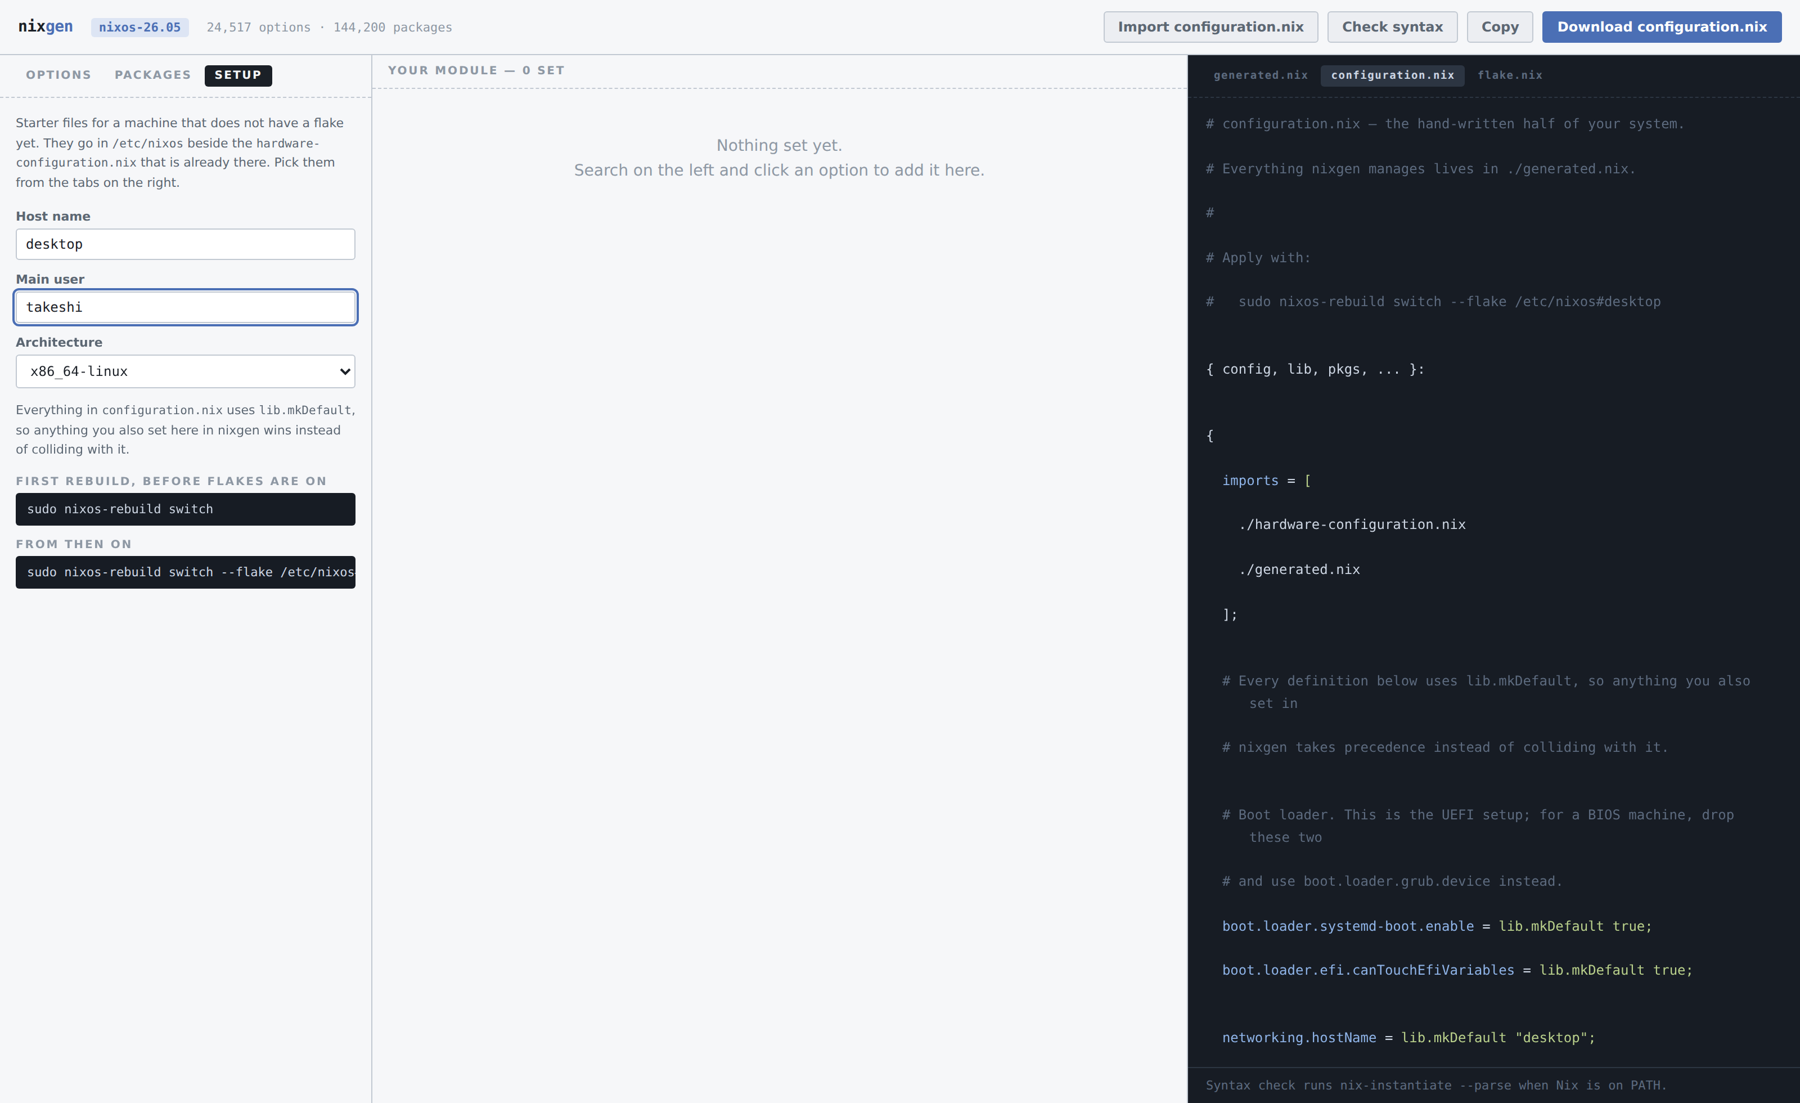
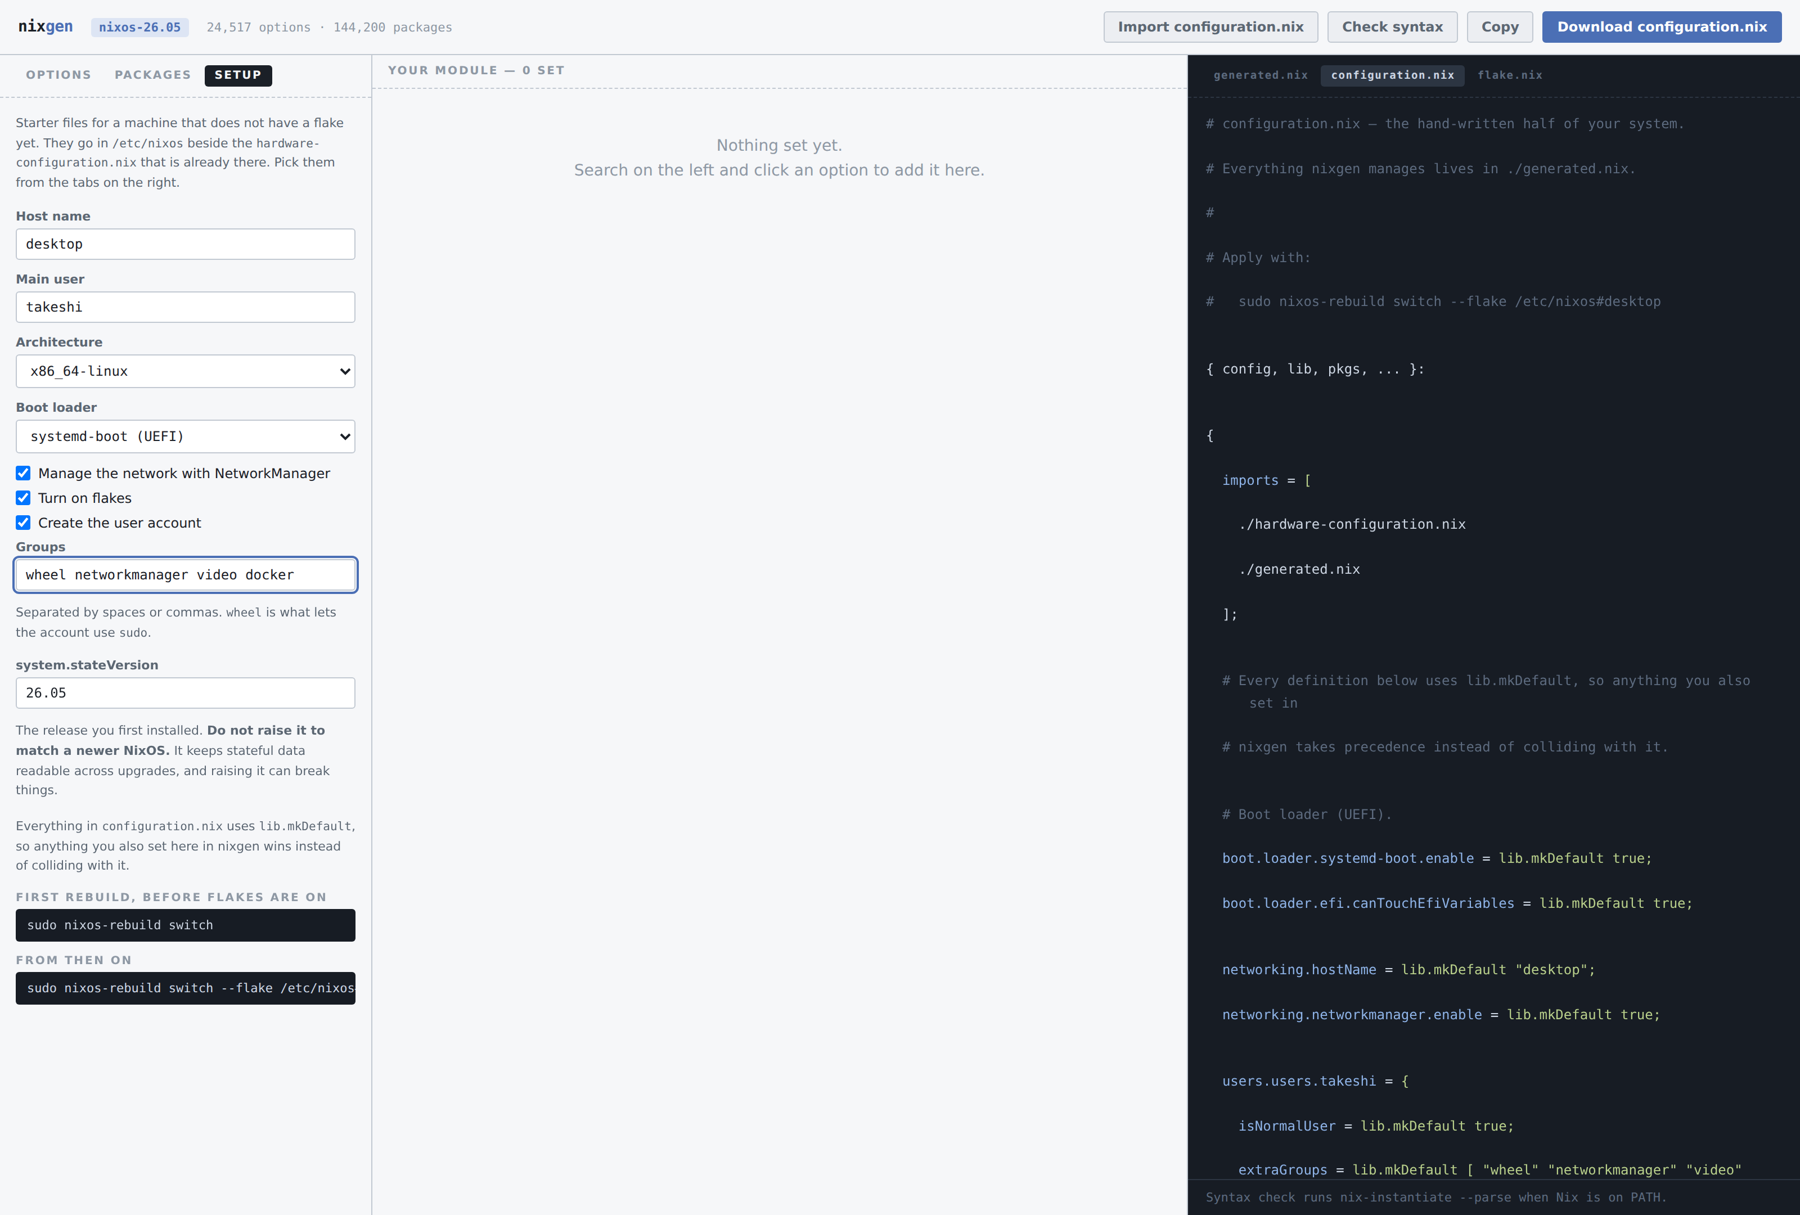
Make every starter field editable

diff --git a/build/static/app.js b/build/static/app.js
@@ -132,8 +132,14 @@ function onSetupChange() {
   clearTimeout(starterTimer);
   starterTimer = setTimeout(loadStarter, 200);
 }
-['s-host', 's-user', 's-system'].forEach(id =>
-  $('#' + id).addEventListener('input', onSetupChange));
+const SETUP_FIELDS = ['s-host', 's-user', 's-system', 's-bootloader',
+  's-grub-device', 's-networkmanager', 's-flakes', 's-make-user',
+  's-groups', 's-state'];
+SETUP_FIELDS.forEach(id => {
+  const n = $('#' + id);
+  n.addEventListener('input', onSetupChange);
+  n.addEventListener('change', onSetupChange);
+});
 
 /* The host name becomes a Nix attribute (nixosConfigurations.<host>) and the
    user name an attribute under users.users, so both have to be plain
@@ -152,12 +158,44 @@ function checkName(id, fallback) {
   return ok;
 }
 
+/* Fields that only matter for one choice are hidden rather than disabled —
+   a GRUB disk path is noise on a UEFI machine. */
+function syncSetupVisibility() {
+  const grub = $('#s-bootloader').value === 'grub';
+  $('#s-grub-wrap').hidden = !grub;
+  $('#s-grub-note').hidden = !grub;
+  const user = $('#s-make-user').checked;
+  $('#s-groups-wrap').hidden = !user;
+  $('#s-groups-note').hidden = !user;
+  $('#s-user').parentElement.hidden = !user;
+}
+
+function checkStateVersion() {
+  const input = $('#s-state');
+  const warn = $('#s-state-warn');
+  const ok = /^\d\d\.\d\d$/.test(input.value.trim());
+  input.classList.toggle('bad', !ok);
+  warn.hidden = ok;
+  if (!ok) warn.textContent = 'Two digits, a dot, two digits — 26.05. Falling back for now.';
+}
+
 async function loadStarter() {
+  syncSetupVisibility();
   checkName('s-host', 'nixos');
-  checkName('s-user', 'user');
+  if ($('#s-make-user').checked) checkName('s-user', 'user');
+  checkStateVersion();
   const host = $('#s-host').value.trim() || 'nixos';
   const q = new URLSearchParams({
-    host, user: $('#s-user').value.trim(), system: $('#s-system').value,
+    host,
+    user: $('#s-user').value.trim(),
+    system: $('#s-system').value,
+    bootloader: $('#s-bootloader').value,
+    grub_device: $('#s-grub-device').value.trim(),
+    networkmanager: $('#s-networkmanager').checked ? '1' : '0',
+    make_user: $('#s-make-user').checked ? '1' : '0',
+    groups: $('#s-groups').value,
+    flakes: $('#s-flakes').checked ? '1' : '0',
+    state_version: $('#s-state').value.trim(),
   });
   state.starter = await fetch('/api/starter?' + q).then(r => r.json());
   state.starterDefines = new Set(state.starter.defines || []);

diff --git a/build/static/index.html b/build/static/index.html
@@ -57,6 +57,40 @@
               <option value="aarch64-linux">aarch64-linux</option>
             </select>
           </label>
+
+          <label>Boot loader
+            <select id="s-bootloader">
+              <option value="systemd-boot">systemd-boot (UEFI)</option>
+              <option value="grub">GRUB (BIOS / legacy)</option>
+              <option value="none">none — set it elsewhere</option>
+            </select>
+          </label>
+          <label id="s-grub-wrap" hidden>Disk for GRUB
+            <input type="text" id="s-grub-device" value="/dev/sda" spellcheck="false">
+          </label>
+          <p class="note" id="s-grub-note" hidden>The whole disk, not a partition —
+             <code>/dev/sda</code>, not <code>/dev/sda1</code>.</p>
+
+          <label class="check"><input type="checkbox" id="s-networkmanager" checked>
+            Manage the network with NetworkManager</label>
+          <label class="check"><input type="checkbox" id="s-flakes" checked>
+            Turn on flakes</label>
+          <label class="check"><input type="checkbox" id="s-make-user" checked>
+            Create the user account</label>
+
+          <label id="s-groups-wrap">Groups
+            <input type="text" id="s-groups" value="wheel networkmanager" spellcheck="false">
+          </label>
+          <p class="note" id="s-groups-note">Separated by spaces or commas.
+             <code>wheel</code> is what lets the account use <code>sudo</code>.</p>
+
+          <label>system.stateVersion
+            <input type="text" id="s-state" value="26.05" spellcheck="false">
+          </label>
+          <p class="warn" id="s-state-warn" hidden></p>
+          <p class="note">The release you first installed. <b>Do not raise it to match
+             a newer NixOS.</b> It keeps stateful data readable across upgrades, and
+             raising it can break things.</p>
           <p class="note">Everything in <code>configuration.nix</code> uses
              <code>lib.mkDefault</code>, so anything you also set here in nixgen
              wins instead of colliding with it.</p>

diff --git a/build/static/app.css b/build/static/app.css
@@ -298,3 +298,7 @@ pre.nix .clash .k, pre.nix .clash .v { color: #e88b8b; }
 pre.nix .clash { border-left: 2px solid #a34545; margin-left: -2px; padding-left: calc(3.2em - 2px); }
 .status.todo { color: #e0b060; }
 .badge.clash { background: #f4dada; color: #a34545; }
+.setupform label.check { display: flex; align-items: center; gap: 7px; font-weight: 400;
+  color: var(--ink); font-size: 12px; margin-bottom: 8px; }
+.setupform label.check input { width: auto; margin: 0; }
+.setupform label[hidden], .setupform p[hidden] { display: none; }

diff --git a/build/starter.py b/build/starter.py
@@ -1,33 +1,66 @@
 """Starter files that wire a system up around the module nixgen produces.
 
-Everything in configuration.nix is wrapped in `lib.mkDefault`. Without that,
+Every line in configuration.nix is wrapped in `lib.mkDefault`. Without that,
 setting the same option here and in generated.nix gives you
 
     error: The option `networking.hostName' has conflicting definition values
 
 which is a miserable first experience. mkDefault lowers the priority of these
 definitions so whatever you set in nixgen simply wins.
+
+The file is assembled block by block rather than from one template, because
+every block can be switched off. `defines()` then reports exactly the option
+paths that were emitted, so the UI can flag the ones generated.nix also sets.
 """
 
 import re
 
 SYSTEMS = ["x86_64-linux", "aarch64-linux"]
+BOOTLOADERS = ["systemd-boot", "grub", "none"]
 
 _IDENT = re.compile(r"[A-Za-z_][A-Za-z0-9_-]*")
+_STATE_VERSION = re.compile(r"\d\d\.\d\d")
+_DEVICE = re.compile(r"[A-Za-z0-9/._-]+")
 
 
-def _safe(value, fallback):
+def _safe(value, fallback, pattern=_IDENT):
     value = (value or "").strip()
-    return value if _IDENT.fullmatch(value) else fallback
+    return value if pattern.fullmatch(value) else fallback
 
 
 def _channel_version(channel):
     """`nixos-26.05` -> `26.05`."""
-    m = re.search(r"(\d\d\.\d\d)", channel or "")
-    return m.group(1) if m else "26.05"
+    m = _STATE_VERSION.search(channel or "")
+    return m.group(0) if m else "26.05"
 
 
-CONFIGURATION = '''# configuration.nix — the hand-written half of your system.
+def _groups(raw, fallback=("wheel", "networkmanager")):
+    """Comma or space separated group names, keeping only valid ones."""
+    if raw is None:
+        return list(fallback)
+    found = [g for g in re.split(r"[,\s]+", raw.strip()) if g]
+    kept = [g for g in found if _IDENT.fullmatch(g)]
+    return kept
+
+
+def _nix_list(items):
+    return "[ " + " ".join('"%s"' % i for i in items) + " ]" if items else "[ ]"
+
+
+def _flag(value, default=True):
+    if value is None:
+        return default
+    return str(value).strip().lower() in ("1", "true", "yes", "on")
+
+
+# --------------------------------------------------------------------- blocks
+
+def _configuration(host, user, system, state, opts):
+    boot = opts["bootloader"]
+    out = []
+    defines = []
+
+    out.append(f'''# configuration.nix — the hand-written half of your system.
 # Everything nixgen manages lives in ./generated.nix.
 #
 # Apply with:
@@ -44,28 +77,61 @@ CONFIGURATION = '''# configuration.nix — the hand-written half of your system.
   # Every definition below uses lib.mkDefault, so anything you also set in
   # nixgen takes precedence instead of colliding with it.
 
-  # Boot loader. This is the UEFI setup; for a BIOS machine, drop these two
-  # and use boot.loader.grub.device instead.
+''')
+
+    if boot == "systemd-boot":
+        out.append('''  # Boot loader (UEFI).
   boot.loader.systemd-boot.enable = lib.mkDefault true;
   boot.loader.efi.canTouchEfiVariables = lib.mkDefault true;
+''')
+        defines += ["boot.loader.systemd-boot.enable",
+                    "boot.loader.efi.canTouchEfiVariables"]
+    elif boot == "grub":
+        out.append(f'''  # Boot loader (BIOS / legacy). `device` is the disk, not a partition.
+  boot.loader.grub.enable = lib.mkDefault true;
+  boot.loader.grub.device = lib.mkDefault "{opts['grub_device']}";
+''')
+        defines += ["boot.loader.grub.enable", "boot.loader.grub.device"]
+    else:
+        out.append('''  # No boot loader here — your hardware-configuration.nix or another
+  # module is expected to set one.
+''')
 
-  networking.hostName = lib.mkDefault "{host}";
-  networking.networkmanager.enable = lib.mkDefault true;
+    net = ['  networking.hostName = lib.mkDefault "%s";' % host]
+    defines.append("networking.hostName")
+    if opts["networkmanager"]:
+        net.append("  networking.networkmanager.enable = lib.mkDefault true;")
+        defines.append("networking.networkmanager.enable")
+    out.append("\n" + "\n".join(net) + "\n")
 
+    if opts["make_user"]:
+        out.append(f'''
   users.users.{user} = {{
     isNormalUser = lib.mkDefault true;
-    extraGroups = lib.mkDefault [ "wheel" "networkmanager" ];
+    extraGroups = lib.mkDefault {_nix_list(opts["groups"])};
   }};
+''')
+        defines += [f"users.users.{user}.isNormalUser",
+                    f"users.users.{user}.extraGroups"]
 
+    if opts["flakes"]:
+        out.append('''
   # Needed before `nixos-rebuild --flake` will work.
   nix.settings.experimental-features = lib.mkDefault [ "nix-command" "flakes" ];
+''')
+        defines.append("nix.settings.experimental-features")
 
+    out.append(f'''
   # The release you first installed. Do not raise it to match a newer NixOS
   # unless you have read the release notes — it exists to keep stateful data
   # readable across upgrades.
   system.stateVersion = lib.mkDefault "{state}";
 }}
-'''
+''')
+    defines.append("system.stateVersion")
+
+    return "".join(out), defines
+
 
 FLAKE = '''{{
   description = "NixOS configuration for {host}";
@@ -83,26 +149,28 @@ FLAKE = '''{{
 }}
 '''
 
-def starter_files(host, user, system, channel):
+
+def starter_files(host, user, system, channel, **kw):
     host = _safe(host, "nixos")
     user = _safe(user, "user")
     system = system if system in SYSTEMS else SYSTEMS[0]
-    state = _channel_version(channel)
+
+    boot = kw.get("bootloader")
+    opts = {
+        "bootloader": boot if boot in BOOTLOADERS else "systemd-boot",
+        "grub_device": _safe(kw.get("grub_device"), "/dev/sda", _DEVICE),
+        "networkmanager": _flag(kw.get("networkmanager")),
+        "make_user": _flag(kw.get("make_user")),
+        "groups": _groups(kw.get("groups")),
+        "flakes": _flag(kw.get("flakes")),
+    }
+    state = _safe(kw.get("state_version"), _channel_version(channel), _STATE_VERSION)
+
+    configuration, defines = _configuration(host, user, system, state, opts)
 
     return {
-        "configuration.nix": CONFIGURATION.format(host=host, user=user, state=state),
-        "flake.nix": FLAKE.format(host=host, channel=channel or "nixos-26.05", system=system),
-        # Paths the starter defines. The UI flags any of these that also appear
-        # in generated.nix: two lib.mkDefault definitions of the same option
-        # have equal priority, and NixOS refuses to pick between them.
-        "defines": [
-            "boot.loader.systemd-boot.enable",
-            "boot.loader.efi.canTouchEfiVariables",
-            "networking.hostName",
-            "networking.networkmanager.enable",
-            f"users.users.{user}.isNormalUser",
-            f"users.users.{user}.extraGroups",
-            "nix.settings.experimental-features",
-            "system.stateVersion",
-        ],
+        "configuration.nix": configuration,
+        "flake.nix": FLAKE.format(host=host, channel=channel or "nixos-26.05",
+                                  system=system),
+        "defines": defines,
     }

diff --git a/build/server.py b/build/server.py
@@ -453,7 +453,14 @@ class Handler(BaseHTTPRequestHandler):
         if u.path == "/api/starter":
             return self._json(starter_files(
                 one("host"), one("user"), one("system"),
-                get_meta().get("channel", "nixos-26.05")))
+                get_meta().get("channel", "nixos-26.05"),
+                bootloader=one("bootloader"),
+                grub_device=one("grub_device"),
+                networkmanager=one("networkmanager"),
+                make_user=one("make_user"),
+                groups=one("groups"),
+                flakes=one("flakes"),
+                state_version=one("state_version")))
         if u.path == "/api/option":
             opt = get_option(one("path", ""))
             return self._json(opt or {"error": "not found"}, 200 if opt else 404)

diff --git a/README.md b/README.md
@@ -172,8 +172,24 @@ exact line. And an option that no longer exists will be rejected by
 
 The **Setup** tab writes the two files that sit around the generated module: a
 `configuration.nix` that imports it, and a `flake.nix` that builds the system.
-Give it a host name, a user name and an architecture; the files appear under
-the tabs on the right, beside `generated.nix`.
+The files appear under the tabs on the right, beside `generated.nix`, and
+update as you type.
+
+Everything in them is editable:
+
+| Field | Notes |
+|---|---|
+| Host name | Becomes `networking.hostName` and the flake's `nixosConfigurations.<host>` |
+| Main user | The account created with `isNormalUser`. Uncheck *Create the user account* to leave users out entirely. |
+| Architecture | `x86_64-linux` or `aarch64-linux` |
+| Boot loader | systemd-boot (UEFI), GRUB (BIOS — asks for the disk), or none if another module sets one |
+| NetworkManager | Off drops `networking.networkmanager.enable` |
+| Flakes | Off drops `nix.settings.experimental-features` |
+| Groups | `wheel` is what lets the account use `sudo`. Add `docker`, `libvirtd`, `video`… as needed. |
+| `system.stateVersion` | Defaults to the indexed release. Do not raise it to match a newer NixOS. |
+
+Switching a block off removes its lines entirely rather than commenting them
+out, so the file stays as short as what you actually asked for.
 
 Everything in the starter `configuration.nix` is wrapped in `lib.mkDefault`.
 Without that, setting the same option in both files gives you
